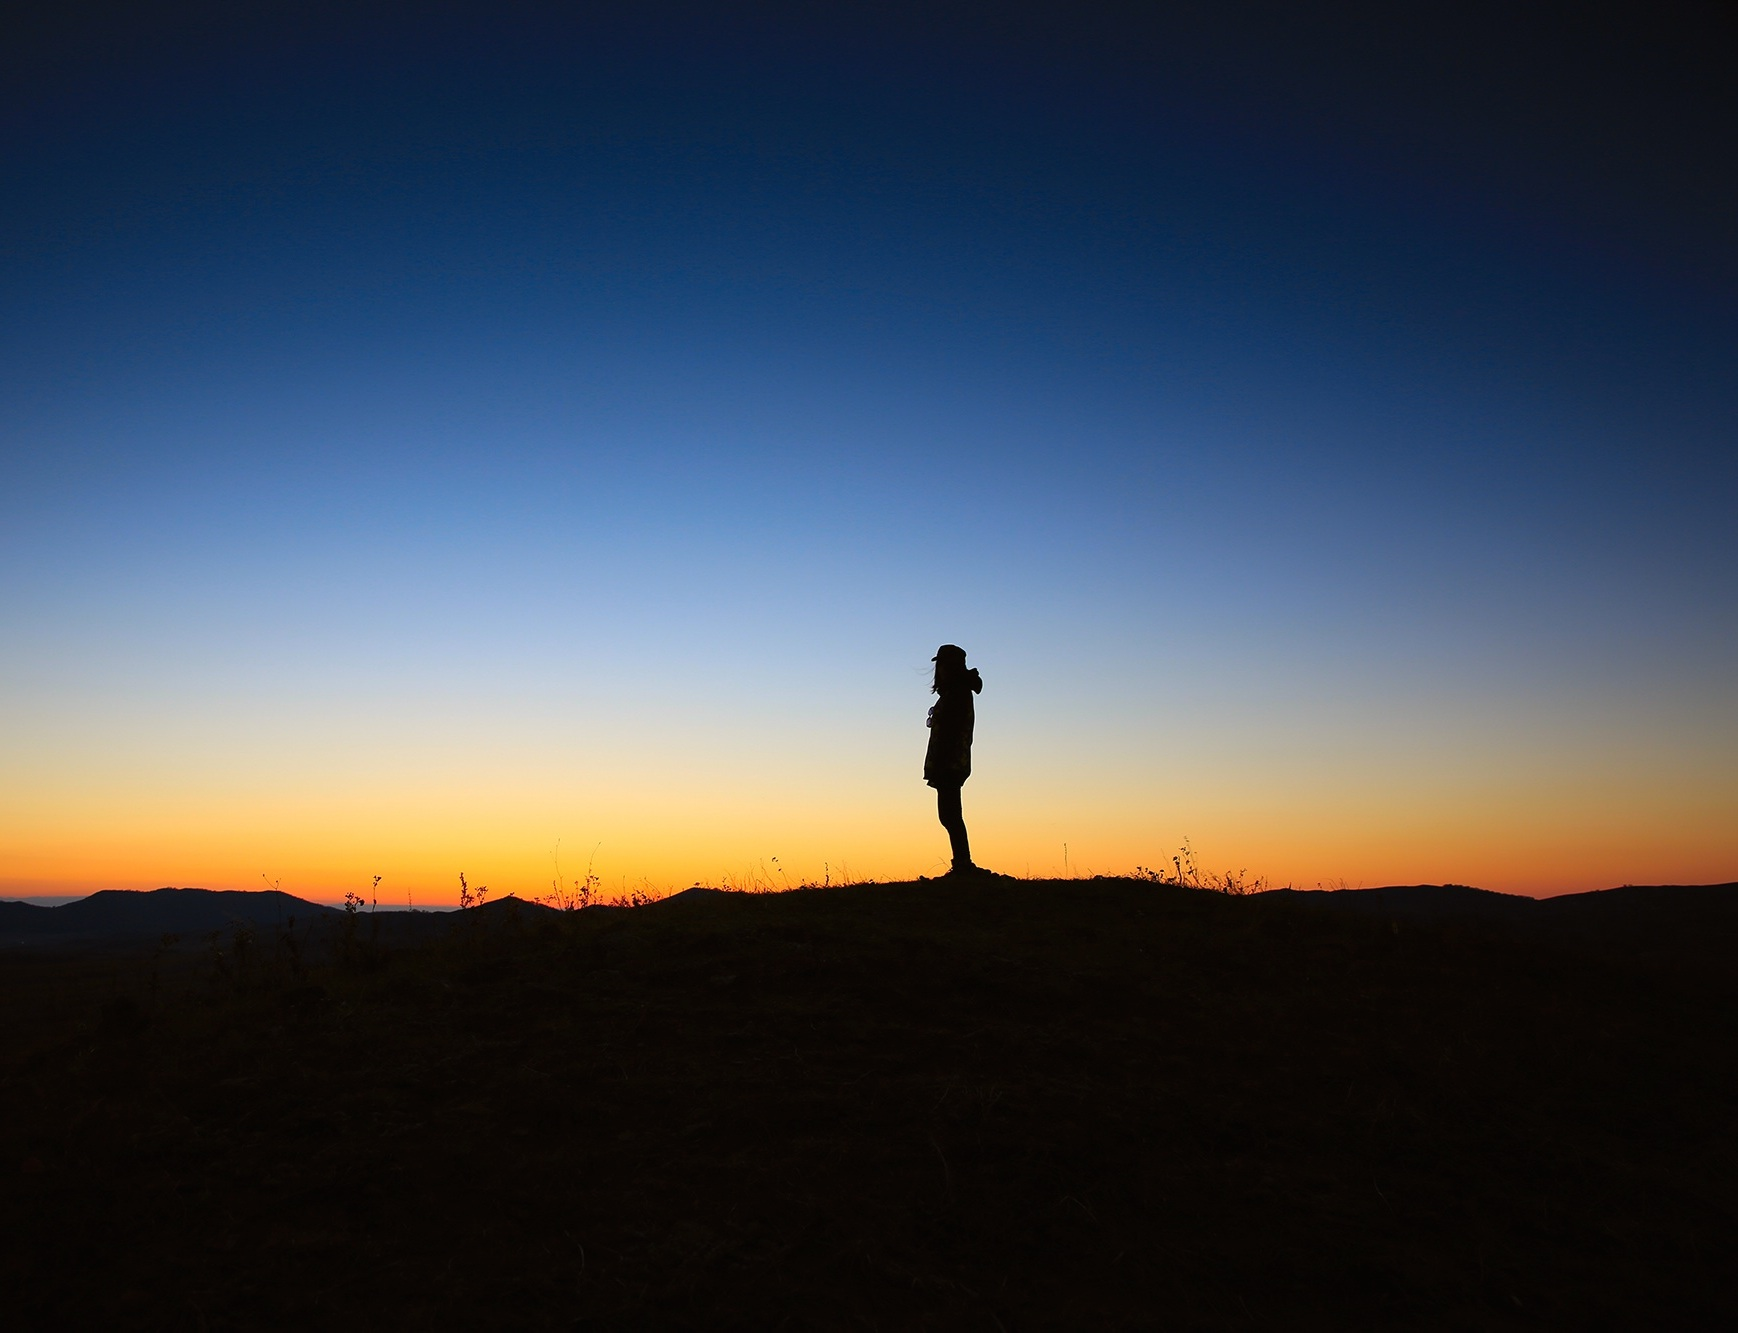
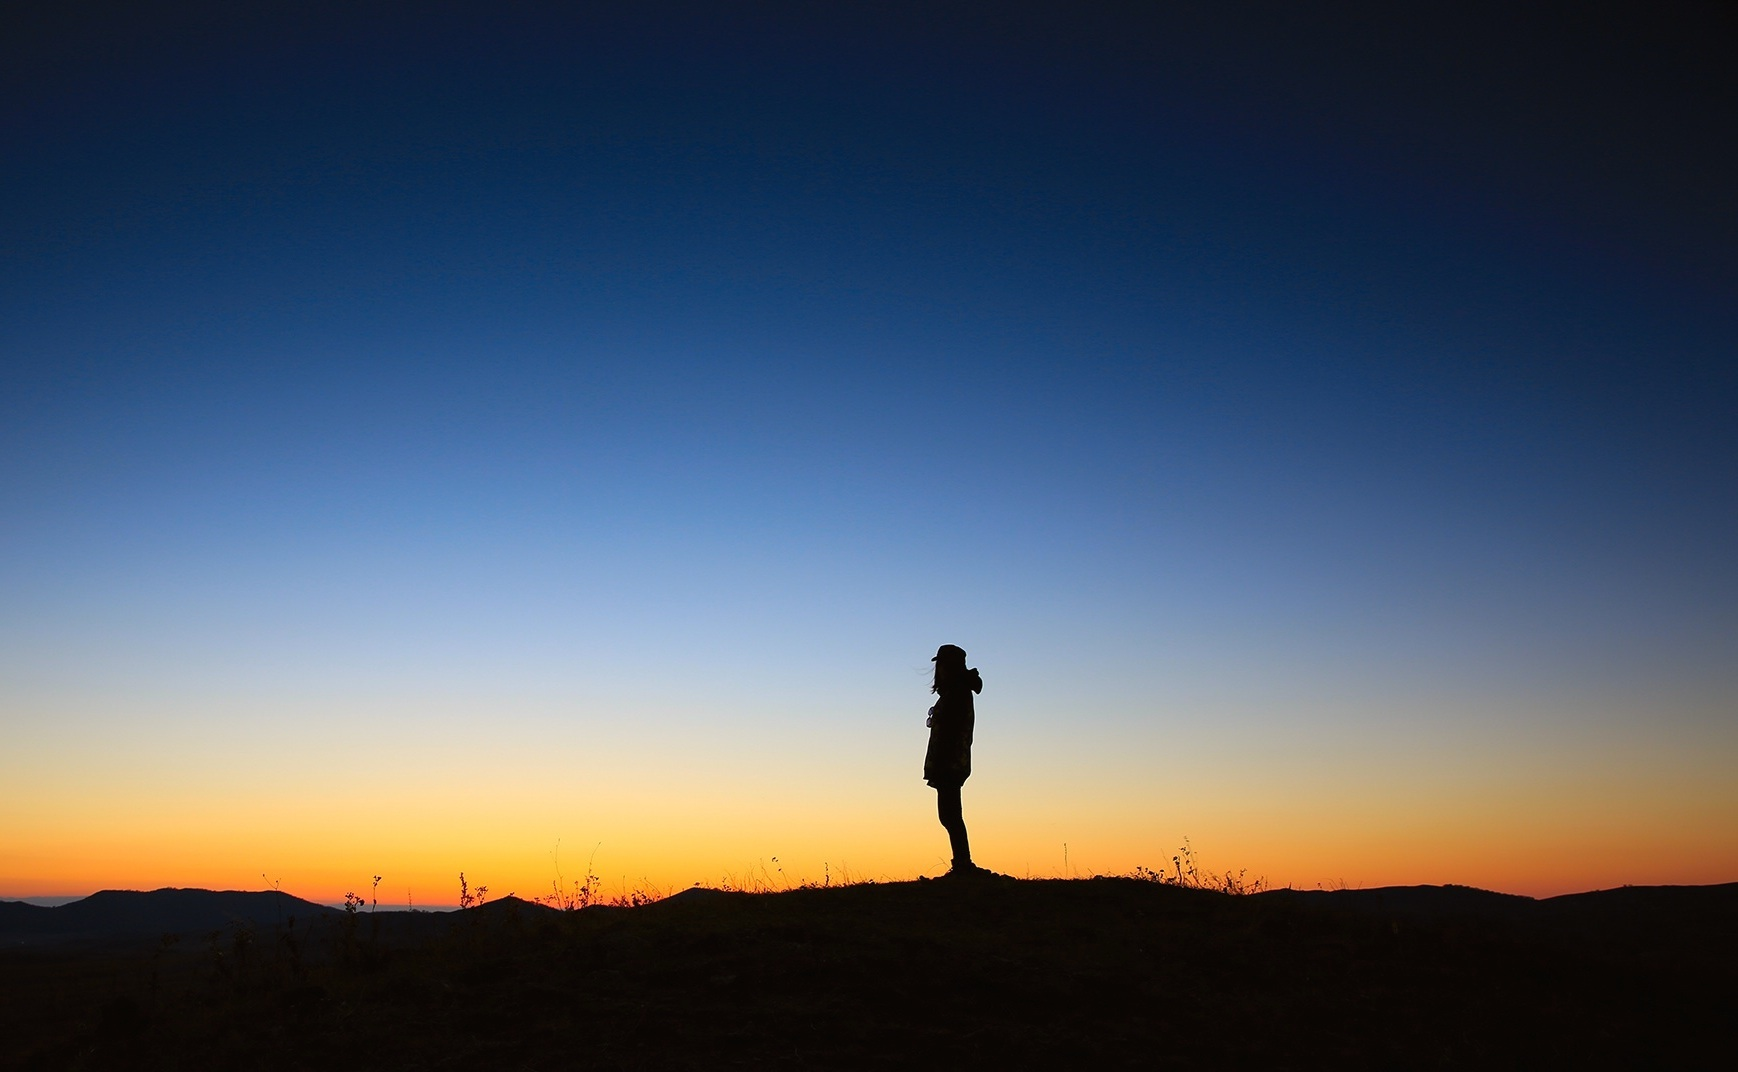
resize landing image

diff --git a/app/assets/stylesheets/main_styles.css.scss b/app/assets/stylesheets/main_styles.css.scss
@@ -54,7 +54,7 @@ h3 {
 	background-size: cover;
 	background-position: center;
 	margin: 0;
-	height: 900px;
+	height: 700px;
 	width: 100%;
 	overflow: hidden;
 	h2 {
